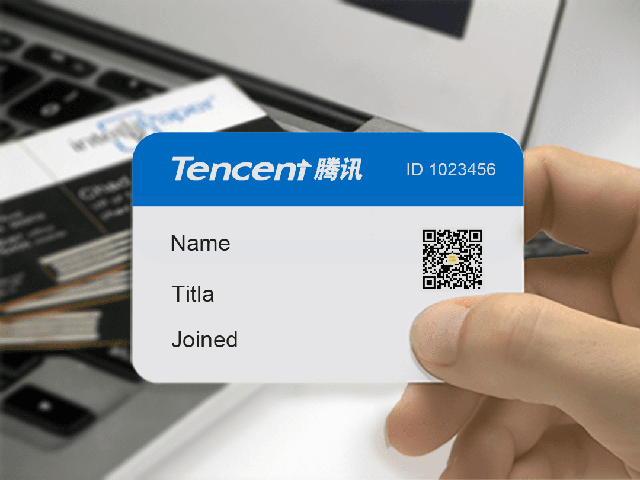
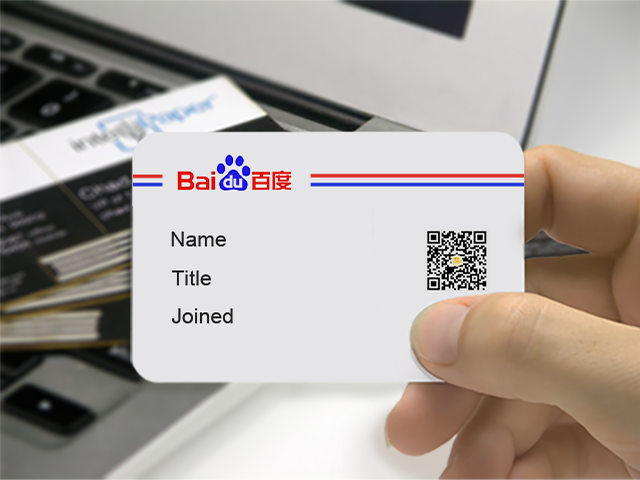
add pics

diff --git a/public/build/js.js b/public/build/js.js
@@ -1,8 +1,8 @@
-!function(e){function t(o){if(n[o])return n[o].exports;var i=n[o]={exports:{},id:o,loaded:!1};return e[o].call(i.exports,i,i.exports,t),i.loaded=!0,i.exports}var n={};return t.m=e,t.c=n,t.p="/public/build/",t(0)}([function(e,t,n){e.exports=n(1)},function(e,t,n){"use strict";function o(e){return e&&e.__esModule?e:{"default":e}}var i=n(2),r=(o(i),{name:"",company:0,job:0}),a={0:"腾讯",1:"阿里巴巴",2:"百度",3:"网易"},c={0:"产品实习经理",1:"运营实习生",2:"市场部实习生",3:"前端实习生",4:"移动开发工程师",5:"视觉设计实习生"},s={0:"public/build/img/tencent.png",1:"public/build/img/alibaba.png",2:"public/build/img/baidu.png",3:"public/build/img/wangyi.png"},l={init:function(){this.render(),this.bind(),document.querySelector(".button").addEventListener("click",function(){return""===r.name.replace(/\s/g,"")?(alert("请输入你的姓名"),!1):void(location.hash=encodeURIComponent("?type=result&name="+r.name+"&company="+r.company+"&job="+r.job))})},bind:function(){var e=function(e){var t=document.querySelector("[name="+e+"]");r[e]=t.value,t.onchange=function(){r[e]=this.value,console.log(r)}};for(var t in r)e(t)},render:function(){document.getElementById("form").style.display="block",document.getElementById("result").style.display="none";var e=document.createElement("select"),t=document.createElement("select");for(var n in a){var o=document.createElement("option");o.text=a[n],o.value=n,e.appendChild(o)}for(var i in c){var s=document.createElement("option");s.text=c[i],s.value=i,t.appendChild(s)}e.name="company",e.value=r.company,t.name="job",t.value=r.job,document.querySelector(".company").replaceChild(e,document.querySelector("[name=company]")),document.querySelector(".job").replaceChild(t,document.querySelector("[name=job]"))}},u={init:function(){for(var e in s){var t=new Image;t.src=s[e]}this.init=function(){return!1}},render:function(){document.getElementById("result").style.display="block",document.getElementById("form").style.display="none";var e=new Image;e.src=s[r.company],e.onload=function(){var t=document.getElementById("canvas"),n=t.getContext("2d"),o=new Date;n.drawImage(e,0,0),n.font="22px no-serif",n.fillText(r.name,254,250),n.fillText(c[r.job],254,300),n.fillText(o.getFullYear()+"/"+(o.getMonth()+1)+"/"+o.getDate(),254,348),document.getElementById("card").src=t.toDataURL("image/png")}}},d={init:function(){var e=this;this.render.call(this,this.parse()),window.addEventListener("hashchange",function(){e.render.call(e,e.parse())})},parse:function(){var e=decodeURIComponent(location.hash),t=(e.match(/[\?\&]?type=([^\?\&]+)/)?e.match(/[\?\&]?type=([^\?\&]+)/)[1]:"form")||"form";return r.name=(e.match(/[\?\&]?name=([^\?\&]+)/)?e.match(/[\?\&]?name=([^\?\&]+)/)[1]:"")||"",r.company=(e.match(/[\?\&]?company=([^\?\&]+)/)?e.match(/[\?\&]?company=([^\?\&]+)/)[1]:0)||0,r.job=(e.match(/[\?\&]?job=([^\?\&]+)/)?e.match(/[\?\&]?job=([^\?\&]+)/)[1]:0)||0,t},render:function(e){switch(r.name&&""!==r.name.replace(/\s/g,"")||(e="form"),console.log(e),e){case"form":l.init(),u.init();break;case"result":u.init(),u.render()}}};window.onload=function(){FastClick.attach(document.body),d.init()}},function(e,t,n){var o,i="function"==typeof Symbol&&"symbol"==typeof Symbol.iterator?function(e){return typeof e}:function(e){return e&&"function"==typeof Symbol&&e.constructor===Symbol?"symbol":typeof e};!function(){"use strict";/**
+!function(e){function t(o){if(n[o])return n[o].exports;var i=n[o]={exports:{},id:o,loaded:!1};return e[o].call(i.exports,i,i.exports,t),i.loaded=!0,i.exports}var n={};return t.m=e,t.c=n,t.p="/public/build/",t(0)}([function(e,t,n){e.exports=n(1)},function(e,t,n){"use strict";function o(e){return e&&e.__esModule?e:{"default":e}}var i=n(2),r=(o(i),{name:"",company:0,job:0}),a={0:"腾讯",1:"阿里巴巴",2:"百度",3:"网易"},c={0:"产品实习经理",1:"运营实习生",2:"市场部实习生",3:"前端实习生",4:"移动开发工程师",5:"视觉设计实习生"},l={0:"public/build/img/tencent.png",1:"public/build/img/alibaba.png",2:"public/build/img/baidu.png",3:"public/build/img/wangyi.png"},s={init:function(){this.render(),this.bind(),document.querySelector(".button").addEventListener("click",function(){return""===r.name.replace(/\s/g,"")?(alert("请输入你的姓名"),!1):void(location.hash=encodeURIComponent("?type=result&name="+r.name+"&company="+r.company+"&job="+r.job))})},bind:function(){var e=function(e){var t=document.querySelector("[name="+e+"]");r[e]=t.value,t.onchange=function(){r[e]=this.value,console.log(r)}};for(var t in r)e(t)},render:function(){document.getElementById("form").style.display="block",document.getElementById("result").style.display="none";var e=document.createElement("select"),t=document.createElement("select");for(var n in a){var o=document.createElement("option");o.text=a[n],o.value=n,e.appendChild(o)}for(var i in c){var l=document.createElement("option");l.text=c[i],l.value=i,t.appendChild(l)}e.name="company",e.value=r.company,t.name="job",t.value=r.job,document.querySelector(".company").replaceChild(e,document.querySelector("[name=company]")),document.querySelector(".job").replaceChild(t,document.querySelector("[name=job]"))}},u={init:function(){for(var e in l){var t=new Image;t.src=l[e]}this.init=function(){return!1}},render:function(){document.getElementById("result").style.display="block",document.getElementById("form").style.display="none";var e=new Image;e.src=l[r.company],e.onload=function(){var t=document.getElementById("canvas"),n=t.getContext("2d"),o=new Date,i=o.getFullYear()+"/"+(o.getMonth()+1)+"/"+o.getDate();if(n.drawImage(e,0,0),0==r.company)n.font="22px sans-serif",n.fillStyle="black",n.fillText(r.name,254,250),n.fillText(c[r.job],254,300),n.fillText(i,254,348);else if(1==r.company)n.font="20px sans-serif",n.fillStyle="orange",n.fillText(r.name,454,205),n.fillText(c[r.job],454,245),n.fillText(i,454,290);else if(2==r.company)n.font="20px sans-serif",n.fillStyle="black",n.fillText(r.name,254,245),n.fillText(c[r.job],254,284),n.fillText(i,254,324);else{if(3!=r.company)return!1;n.font="18px sans-serif",n.fillStyle="white",n.fillText(r.name,254,298),n.fillText(c[r.job],254,328),n.fillText(i,254,360)}document.getElementById("card").src=t.toDataURL("image/png")}}},d={init:function(){var e=this;this.render.call(this,this.parse()),window.addEventListener("hashchange",function(){e.render.call(e,e.parse())})},parse:function(){var e=decodeURIComponent(location.hash),t=(e.match(/[\?\&]?type=([^\?\&]+)/)?e.match(/[\?\&]?type=([^\?\&]+)/)[1]:"form")||"form";return r.name=(e.match(/[\?\&]?name=([^\?\&]+)/)?e.match(/[\?\&]?name=([^\?\&]+)/)[1]:"")||"",r.company=(e.match(/[\?\&]?company=([^\?\&]+)/)?e.match(/[\?\&]?company=([^\?\&]+)/)[1]:0)||0,r.job=(e.match(/[\?\&]?job=([^\?\&]+)/)?e.match(/[\?\&]?job=([^\?\&]+)/)[1]:0)||0,t},render:function(e){switch(r.name&&""!==r.name.replace(/\s/g,"")||(e="form"),console.log(e),e){case"form":s.init(),u.init();break;case"result":u.init(),u.render()}}};window.onload=function(){FastClick.attach(document.body),d.init()}},function(e,t,n){var o,i="function"==typeof Symbol&&"symbol"==typeof Symbol.iterator?function(e){return typeof e}:function(e){return e&&"function"==typeof Symbol&&e.constructor===Symbol?"symbol":typeof e};!function(){"use strict";/**
 	  * @preserve FastClick: polyfill to remove click delays on browsers with touch UIs.
 	  *
 	  * @codingstandard ftlabs-jsv2
 	  * @copyright The Financial Times Limited [All Rights Reserved]
 	  * @license MIT License (see LICENSE.txt)
 	  */
-function r(e,t){function n(e,t){return function(){return e.apply(t,arguments)}}var o;if(t=t||{},this.trackingClick=!1,this.trackingClickStart=0,this.targetElement=null,this.touchStartX=0,this.touchStartY=0,this.lastTouchIdentifier=0,this.touchBoundary=t.touchBoundary||10,this.layer=e,this.tapDelay=t.tapDelay||200,this.tapTimeout=t.tapTimeout||700,!r.notNeeded(e)){for(var i=["onMouse","onClick","onTouchStart","onTouchMove","onTouchEnd","onTouchCancel"],a=this,s=0,l=i.length;l>s;s++)a[i[s]]=n(a[i[s]],a);c&&(e.addEventListener("mouseover",this.onMouse,!0),e.addEventListener("mousedown",this.onMouse,!0),e.addEventListener("mouseup",this.onMouse,!0)),e.addEventListener("click",this.onClick,!0),e.addEventListener("touchstart",this.onTouchStart,!1),e.addEventListener("touchmove",this.onTouchMove,!1),e.addEventListener("touchend",this.onTouchEnd,!1),e.addEventListener("touchcancel",this.onTouchCancel,!1),Event.prototype.stopImmediatePropagation||(e.removeEventListener=function(t,n,o){var i=Node.prototype.removeEventListener;"click"===t?i.call(e,t,n.hijacked||n,o):i.call(e,t,n,o)},e.addEventListener=function(t,n,o){var i=Node.prototype.addEventListener;"click"===t?i.call(e,t,n.hijacked||(n.hijacked=function(e){e.propagationStopped||n(e)}),o):i.call(e,t,n,o)}),"function"==typeof e.onclick&&(o=e.onclick,e.addEventListener("click",function(e){o(e)},!1),e.onclick=null)}}var a=navigator.userAgent.indexOf("Windows Phone")>=0,c=navigator.userAgent.indexOf("Android")>0&&!a,s=/iP(ad|hone|od)/.test(navigator.userAgent)&&!a,l=s&&/OS 4_\d(_\d)?/.test(navigator.userAgent),u=s&&/OS [6-7]_\d/.test(navigator.userAgent),d=navigator.userAgent.indexOf("BB10")>0;r.prototype.needsClick=function(e){switch(e.nodeName.toLowerCase()){case"button":case"select":case"textarea":if(e.disabled)return!0;break;case"input":if(s&&"file"===e.type||e.disabled)return!0;break;case"label":case"iframe":case"video":return!0}return/\bneedsclick\b/.test(e.className)},r.prototype.needsFocus=function(e){switch(e.nodeName.toLowerCase()){case"textarea":return!0;case"select":return!c;case"input":switch(e.type){case"button":case"checkbox":case"file":case"image":case"radio":case"submit":return!1}return!e.disabled&&!e.readOnly;default:return/\bneedsfocus\b/.test(e.className)}},r.prototype.sendClick=function(e,t){var n,o;document.activeElement&&document.activeElement!==e&&document.activeElement.blur(),o=t.changedTouches[0],n=document.createEvent("MouseEvents"),n.initMouseEvent(this.determineEventType(e),!0,!0,window,1,o.screenX,o.screenY,o.clientX,o.clientY,!1,!1,!1,!1,0,null),n.forwardedTouchEvent=!0,e.dispatchEvent(n)},r.prototype.determineEventType=function(e){return c&&"select"===e.tagName.toLowerCase()?"mousedown":"click"},r.prototype.focus=function(e){var t;s&&e.setSelectionRange&&0!==e.type.indexOf("date")&&"time"!==e.type&&"month"!==e.type?(t=e.value.length,e.setSelectionRange(t,t)):e.focus()},r.prototype.updateScrollParent=function(e){var t,n;if(t=e.fastClickScrollParent,!t||!t.contains(e)){n=e;do{if(n.scrollHeight>n.offsetHeight){t=n,e.fastClickScrollParent=n;break}n=n.parentElement}while(n)}t&&(t.fastClickLastScrollTop=t.scrollTop)},r.prototype.getTargetElementFromEventTarget=function(e){return e.nodeType===Node.TEXT_NODE?e.parentNode:e},r.prototype.onTouchStart=function(e){var t,n,o;if(e.targetTouches.length>1)return!0;if(t=this.getTargetElementFromEventTarget(e.target),n=e.targetTouches[0],s){if(o=window.getSelection(),o.rangeCount&&!o.isCollapsed)return!0;if(!l){if(n.identifier&&n.identifier===this.lastTouchIdentifier)return e.preventDefault(),!1;this.lastTouchIdentifier=n.identifier,this.updateScrollParent(t)}}return this.trackingClick=!0,this.trackingClickStart=e.timeStamp,this.targetElement=t,this.touchStartX=n.pageX,this.touchStartY=n.pageY,e.timeStamp-this.lastClickTime<this.tapDelay&&e.preventDefault(),!0},r.prototype.touchHasMoved=function(e){var t=e.changedTouches[0],n=this.touchBoundary;return Math.abs(t.pageX-this.touchStartX)>n||Math.abs(t.pageY-this.touchStartY)>n},r.prototype.onTouchMove=function(e){return this.trackingClick?((this.targetElement!==this.getTargetElementFromEventTarget(e.target)||this.touchHasMoved(e))&&(this.trackingClick=!1,this.targetElement=null),!0):!0},r.prototype.findControl=function(e){return void 0!==e.control?e.control:e.htmlFor?document.getElementById(e.htmlFor):e.querySelector("button, input:not([type=hidden]), keygen, meter, output, progress, select, textarea")},r.prototype.onTouchEnd=function(e){var t,n,o,i,r,a=this.targetElement;if(!this.trackingClick)return!0;if(e.timeStamp-this.lastClickTime<this.tapDelay)return this.cancelNextClick=!0,!0;if(e.timeStamp-this.trackingClickStart>this.tapTimeout)return!0;if(this.cancelNextClick=!1,this.lastClickTime=e.timeStamp,n=this.trackingClickStart,this.trackingClick=!1,this.trackingClickStart=0,u&&(r=e.changedTouches[0],a=document.elementFromPoint(r.pageX-window.pageXOffset,r.pageY-window.pageYOffset)||a,a.fastClickScrollParent=this.targetElement.fastClickScrollParent),o=a.tagName.toLowerCase(),"label"===o){if(t=this.findControl(a)){if(this.focus(a),c)return!1;a=t}}else if(this.needsFocus(a))return e.timeStamp-n>100||s&&window.top!==window&&"input"===o?(this.targetElement=null,!1):(this.focus(a),this.sendClick(a,e),s&&"select"===o||(this.targetElement=null,e.preventDefault()),!1);return s&&!l&&(i=a.fastClickScrollParent,i&&i.fastClickLastScrollTop!==i.scrollTop)?!0:(this.needsClick(a)||(e.preventDefault(),this.sendClick(a,e)),!1)},r.prototype.onTouchCancel=function(){this.trackingClick=!1,this.targetElement=null},r.prototype.onMouse=function(e){return this.targetElement?e.forwardedTouchEvent?!0:e.cancelable&&(!this.needsClick(this.targetElement)||this.cancelNextClick)?(e.stopImmediatePropagation?e.stopImmediatePropagation():e.propagationStopped=!0,e.stopPropagation(),e.preventDefault(),!1):!0:!0},r.prototype.onClick=function(e){var t;return this.trackingClick?(this.targetElement=null,this.trackingClick=!1,!0):"submit"===e.target.type&&0===e.detail?!0:(t=this.onMouse(e),t||(this.targetElement=null),t)},r.prototype.destroy=function(){var e=this.layer;c&&(e.removeEventListener("mouseover",this.onMouse,!0),e.removeEventListener("mousedown",this.onMouse,!0),e.removeEventListener("mouseup",this.onMouse,!0)),e.removeEventListener("click",this.onClick,!0),e.removeEventListener("touchstart",this.onTouchStart,!1),e.removeEventListener("touchmove",this.onTouchMove,!1),e.removeEventListener("touchend",this.onTouchEnd,!1),e.removeEventListener("touchcancel",this.onTouchCancel,!1)},r.notNeeded=function(e){var t,n,o,i;if("undefined"==typeof window.ontouchstart)return!0;if(n=+(/Chrome\/([0-9]+)/.exec(navigator.userAgent)||[,0])[1]){if(!c)return!0;if(t=document.querySelector("meta[name=viewport]")){if(-1!==t.content.indexOf("user-scalable=no"))return!0;if(n>31&&document.documentElement.scrollWidth<=window.outerWidth)return!0}}if(d&&(o=navigator.userAgent.match(/Version\/([0-9]*)\.([0-9]*)/),o[1]>=10&&o[2]>=3&&(t=document.querySelector("meta[name=viewport]")))){if(-1!==t.content.indexOf("user-scalable=no"))return!0;if(document.documentElement.scrollWidth<=window.outerWidth)return!0}return"none"===e.style.msTouchAction||"manipulation"===e.style.touchAction?!0:(i=+(/Firefox\/([0-9]+)/.exec(navigator.userAgent)||[,0])[1],i>=27&&(t=document.querySelector("meta[name=viewport]"),t&&(-1!==t.content.indexOf("user-scalable=no")||document.documentElement.scrollWidth<=window.outerWidth))?!0:"none"===e.style.touchAction||"manipulation"===e.style.touchAction)},r.attach=function(e,t){return new r(e,t)},"object"===i(n(3))&&n(3)?(o=function(){return r}.call(t,n,t,e),!(void 0!==o&&(e.exports=o))):"undefined"!=typeof e&&e.exports?(e.exports=r.attach,e.exports.FastClick=r):window.FastClick=r}()},function(e,t){(function(t){e.exports=t}).call(t,{})}]);
+function r(e,t){function n(e,t){return function(){return e.apply(t,arguments)}}var o;if(t=t||{},this.trackingClick=!1,this.trackingClickStart=0,this.targetElement=null,this.touchStartX=0,this.touchStartY=0,this.lastTouchIdentifier=0,this.touchBoundary=t.touchBoundary||10,this.layer=e,this.tapDelay=t.tapDelay||200,this.tapTimeout=t.tapTimeout||700,!r.notNeeded(e)){for(var i=["onMouse","onClick","onTouchStart","onTouchMove","onTouchEnd","onTouchCancel"],a=this,l=0,s=i.length;s>l;l++)a[i[l]]=n(a[i[l]],a);c&&(e.addEventListener("mouseover",this.onMouse,!0),e.addEventListener("mousedown",this.onMouse,!0),e.addEventListener("mouseup",this.onMouse,!0)),e.addEventListener("click",this.onClick,!0),e.addEventListener("touchstart",this.onTouchStart,!1),e.addEventListener("touchmove",this.onTouchMove,!1),e.addEventListener("touchend",this.onTouchEnd,!1),e.addEventListener("touchcancel",this.onTouchCancel,!1),Event.prototype.stopImmediatePropagation||(e.removeEventListener=function(t,n,o){var i=Node.prototype.removeEventListener;"click"===t?i.call(e,t,n.hijacked||n,o):i.call(e,t,n,o)},e.addEventListener=function(t,n,o){var i=Node.prototype.addEventListener;"click"===t?i.call(e,t,n.hijacked||(n.hijacked=function(e){e.propagationStopped||n(e)}),o):i.call(e,t,n,o)}),"function"==typeof e.onclick&&(o=e.onclick,e.addEventListener("click",function(e){o(e)},!1),e.onclick=null)}}var a=navigator.userAgent.indexOf("Windows Phone")>=0,c=navigator.userAgent.indexOf("Android")>0&&!a,l=/iP(ad|hone|od)/.test(navigator.userAgent)&&!a,s=l&&/OS 4_\d(_\d)?/.test(navigator.userAgent),u=l&&/OS [6-7]_\d/.test(navigator.userAgent),d=navigator.userAgent.indexOf("BB10")>0;r.prototype.needsClick=function(e){switch(e.nodeName.toLowerCase()){case"button":case"select":case"textarea":if(e.disabled)return!0;break;case"input":if(l&&"file"===e.type||e.disabled)return!0;break;case"label":case"iframe":case"video":return!0}return/\bneedsclick\b/.test(e.className)},r.prototype.needsFocus=function(e){switch(e.nodeName.toLowerCase()){case"textarea":return!0;case"select":return!c;case"input":switch(e.type){case"button":case"checkbox":case"file":case"image":case"radio":case"submit":return!1}return!e.disabled&&!e.readOnly;default:return/\bneedsfocus\b/.test(e.className)}},r.prototype.sendClick=function(e,t){var n,o;document.activeElement&&document.activeElement!==e&&document.activeElement.blur(),o=t.changedTouches[0],n=document.createEvent("MouseEvents"),n.initMouseEvent(this.determineEventType(e),!0,!0,window,1,o.screenX,o.screenY,o.clientX,o.clientY,!1,!1,!1,!1,0,null),n.forwardedTouchEvent=!0,e.dispatchEvent(n)},r.prototype.determineEventType=function(e){return c&&"select"===e.tagName.toLowerCase()?"mousedown":"click"},r.prototype.focus=function(e){var t;l&&e.setSelectionRange&&0!==e.type.indexOf("date")&&"time"!==e.type&&"month"!==e.type?(t=e.value.length,e.setSelectionRange(t,t)):e.focus()},r.prototype.updateScrollParent=function(e){var t,n;if(t=e.fastClickScrollParent,!t||!t.contains(e)){n=e;do{if(n.scrollHeight>n.offsetHeight){t=n,e.fastClickScrollParent=n;break}n=n.parentElement}while(n)}t&&(t.fastClickLastScrollTop=t.scrollTop)},r.prototype.getTargetElementFromEventTarget=function(e){return e.nodeType===Node.TEXT_NODE?e.parentNode:e},r.prototype.onTouchStart=function(e){var t,n,o;if(e.targetTouches.length>1)return!0;if(t=this.getTargetElementFromEventTarget(e.target),n=e.targetTouches[0],l){if(o=window.getSelection(),o.rangeCount&&!o.isCollapsed)return!0;if(!s){if(n.identifier&&n.identifier===this.lastTouchIdentifier)return e.preventDefault(),!1;this.lastTouchIdentifier=n.identifier,this.updateScrollParent(t)}}return this.trackingClick=!0,this.trackingClickStart=e.timeStamp,this.targetElement=t,this.touchStartX=n.pageX,this.touchStartY=n.pageY,e.timeStamp-this.lastClickTime<this.tapDelay&&e.preventDefault(),!0},r.prototype.touchHasMoved=function(e){var t=e.changedTouches[0],n=this.touchBoundary;return Math.abs(t.pageX-this.touchStartX)>n||Math.abs(t.pageY-this.touchStartY)>n},r.prototype.onTouchMove=function(e){return this.trackingClick?((this.targetElement!==this.getTargetElementFromEventTarget(e.target)||this.touchHasMoved(e))&&(this.trackingClick=!1,this.targetElement=null),!0):!0},r.prototype.findControl=function(e){return void 0!==e.control?e.control:e.htmlFor?document.getElementById(e.htmlFor):e.querySelector("button, input:not([type=hidden]), keygen, meter, output, progress, select, textarea")},r.prototype.onTouchEnd=function(e){var t,n,o,i,r,a=this.targetElement;if(!this.trackingClick)return!0;if(e.timeStamp-this.lastClickTime<this.tapDelay)return this.cancelNextClick=!0,!0;if(e.timeStamp-this.trackingClickStart>this.tapTimeout)return!0;if(this.cancelNextClick=!1,this.lastClickTime=e.timeStamp,n=this.trackingClickStart,this.trackingClick=!1,this.trackingClickStart=0,u&&(r=e.changedTouches[0],a=document.elementFromPoint(r.pageX-window.pageXOffset,r.pageY-window.pageYOffset)||a,a.fastClickScrollParent=this.targetElement.fastClickScrollParent),o=a.tagName.toLowerCase(),"label"===o){if(t=this.findControl(a)){if(this.focus(a),c)return!1;a=t}}else if(this.needsFocus(a))return e.timeStamp-n>100||l&&window.top!==window&&"input"===o?(this.targetElement=null,!1):(this.focus(a),this.sendClick(a,e),l&&"select"===o||(this.targetElement=null,e.preventDefault()),!1);return l&&!s&&(i=a.fastClickScrollParent,i&&i.fastClickLastScrollTop!==i.scrollTop)?!0:(this.needsClick(a)||(e.preventDefault(),this.sendClick(a,e)),!1)},r.prototype.onTouchCancel=function(){this.trackingClick=!1,this.targetElement=null},r.prototype.onMouse=function(e){return this.targetElement?e.forwardedTouchEvent?!0:e.cancelable&&(!this.needsClick(this.targetElement)||this.cancelNextClick)?(e.stopImmediatePropagation?e.stopImmediatePropagation():e.propagationStopped=!0,e.stopPropagation(),e.preventDefault(),!1):!0:!0},r.prototype.onClick=function(e){var t;return this.trackingClick?(this.targetElement=null,this.trackingClick=!1,!0):"submit"===e.target.type&&0===e.detail?!0:(t=this.onMouse(e),t||(this.targetElement=null),t)},r.prototype.destroy=function(){var e=this.layer;c&&(e.removeEventListener("mouseover",this.onMouse,!0),e.removeEventListener("mousedown",this.onMouse,!0),e.removeEventListener("mouseup",this.onMouse,!0)),e.removeEventListener("click",this.onClick,!0),e.removeEventListener("touchstart",this.onTouchStart,!1),e.removeEventListener("touchmove",this.onTouchMove,!1),e.removeEventListener("touchend",this.onTouchEnd,!1),e.removeEventListener("touchcancel",this.onTouchCancel,!1)},r.notNeeded=function(e){var t,n,o,i;if("undefined"==typeof window.ontouchstart)return!0;if(n=+(/Chrome\/([0-9]+)/.exec(navigator.userAgent)||[,0])[1]){if(!c)return!0;if(t=document.querySelector("meta[name=viewport]")){if(-1!==t.content.indexOf("user-scalable=no"))return!0;if(n>31&&document.documentElement.scrollWidth<=window.outerWidth)return!0}}if(d&&(o=navigator.userAgent.match(/Version\/([0-9]*)\.([0-9]*)/),o[1]>=10&&o[2]>=3&&(t=document.querySelector("meta[name=viewport]")))){if(-1!==t.content.indexOf("user-scalable=no"))return!0;if(document.documentElement.scrollWidth<=window.outerWidth)return!0}return"none"===e.style.msTouchAction||"manipulation"===e.style.touchAction?!0:(i=+(/Firefox\/([0-9]+)/.exec(navigator.userAgent)||[,0])[1],i>=27&&(t=document.querySelector("meta[name=viewport]"),t&&(-1!==t.content.indexOf("user-scalable=no")||document.documentElement.scrollWidth<=window.outerWidth))?!0:"none"===e.style.touchAction||"manipulation"===e.style.touchAction)},r.attach=function(e,t){return new r(e,t)},"object"===i(n(3))&&n(3)?(o=function(){return r}.call(t,n,t,e),!(void 0!==o&&(e.exports=o))):"undefined"!=typeof e&&e.exports?(e.exports=r.attach,e.exports.FastClick=r):window.FastClick=r}()},function(e,t){(function(t){e.exports=t}).call(t,{})}]);

diff --git a/src/js/main.js b/src/js/main.js
@@ -96,11 +96,35 @@ const result = {
             let canvas = document.getElementById('canvas');
             let ctx = canvas.getContext('2d');
             let date = new Date();
+            let dateString = `${date.getFullYear()}/${date.getMonth()+1}/${date.getDate()}`;
             ctx.drawImage(img, 0, 0);
-            ctx.font = "22px no-serif";
-            ctx.fillText(info.name, 254, 250);
-            ctx.fillText(jobs[info.job], 254, 300);
-            ctx.fillText(`${date.getFullYear()}/${date.getMonth()+1}/${date.getDate()}`, 254, 348);
+            if (info.company == 0) {
+                ctx.font = '22px sans-serif';
+                ctx.fillStyle = "black";
+                ctx.fillText(info.name, 254, 250);
+                ctx.fillText(jobs[info.job], 254, 300);
+                ctx.fillText(dateString, 254, 348);
+            } else if (info.company == 1) {
+                ctx.font = '20px sans-serif';
+                ctx.fillStyle = "orange";
+                ctx.fillText(info.name, 454, 205);
+                ctx.fillText(jobs[info.job], 454, 245);
+                ctx.fillText(dateString, 454, 290);
+            } else if (info.company == 2) {
+                ctx.font = '20px sans-serif';
+                ctx.fillStyle = "black";
+                ctx.fillText(info.name, 254, 245);
+                ctx.fillText(jobs[info.job], 254, 284);
+                ctx.fillText(dateString, 254, 324);
+            } else if (info.company == 3) {
+                ctx.font = '18px sans-serif';
+                ctx.fillStyle = "white";
+                ctx.fillText(info.name, 254, 298);
+                ctx.fillText(jobs[info.job], 254, 328);
+                ctx.fillText(dateString, 254, 360);
+            } else {
+                return false;
+            }
             document.getElementById('card').src = canvas.toDataURL("image/png");
         };  
     }

diff --git a/index.html b/index.html
@@ -3,7 +3,7 @@
 <head>
     <meta charset="UTF-8">
     <meta name="viewport" content="width=device-width,minimum-scale=1.0,maximum-scale=1.0,user-scalable=no">
-    <title>出人CEO，迎娶白富美</title>
+    <title>出任CEO，迎娶白富美</title>
     <script src="public/build/style.js"></script>
 </head>
 <body>
